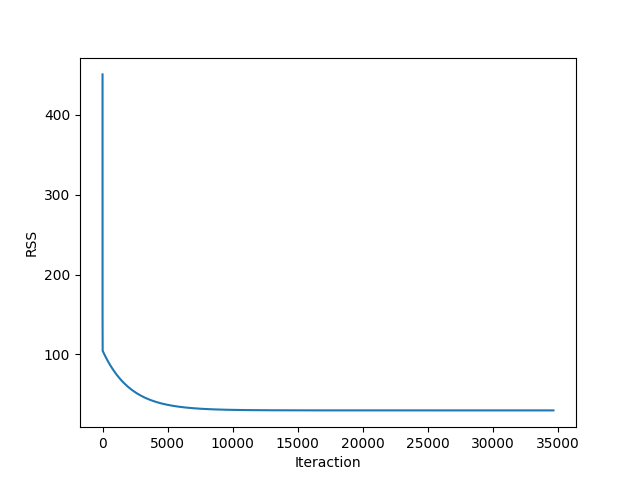
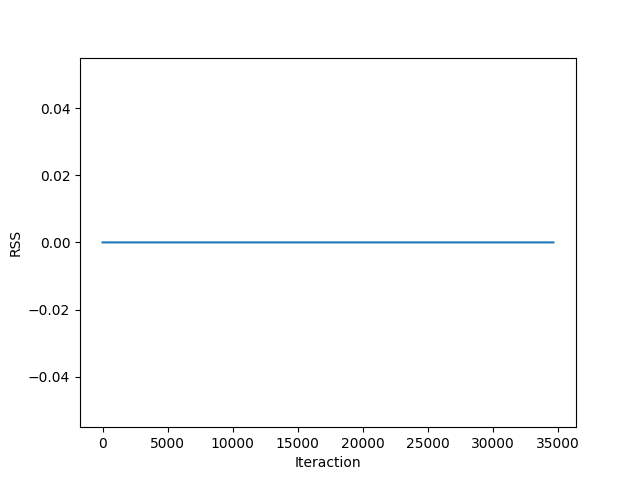
update vetorization

diff --git a/Tarefas/Regressão-Linear-Simples-do-Zero/demo.py b/Tarefas/Regressão-Linear-Simples-do-Zero/demo.py
@@ -51,49 +51,48 @@ def save_figure(data, xlabel, ylabel, filename):
 ## Compute the errors for a given line
 #  @param b Is the linear coefficient
 #  @param m Is the angular coefficient
-#  @param point All points from domain and image
-def compute_error_for_line_given_points(b, m, points):
-	totalError = 0
-	for i in range(0, len(points)):
-		x = points[i, 0]
-		y = points[i, 1]
-		totalError += (y - (m * x + b)) ** 2
-	return totalError / float(len(points))
+#  @param x Domain points
+#  @param y Domain points
+def compute_error_for_line_given_points(w0, w1, x, y):
+	totalError = sum((y - (w1 * x + w0)) ** 2)
+	totalError /= float(len(x))
+	return totalError
 
 ## Calculate a new linear and angular coefficient step by a learning rate. 
-#  @param b_current Current linear coefficient
-#  @param m_current Current linear coefficient
-#  @param points All points from domain and image
+#  @param w0_current Current linear coefficient
+#  @param w1_current Current linear coefficient
+#  @param x Domain points
+#  @param y Image points
 #  @param learningRate The rate in which the gradient will be changed in one step
-def step_gradient(b_current, m_current, points, learningRate):
-	b_gradient = 0
-	m_gradient = 0
+def step_gradient(w0_current, w1_current, x, y, learningRate):
+	w0 = 0
+	w1 = 0
 	norma = 0
-	N = float(len(points))
-	for i in range(0, len(points)):
-		x = points[i, 0]
-		y = points[i, 1]
-		b_gradient += -(2/N) * (y - ((m_current * x) + b_current))
-		m_gradient += -(2/N) * x * (y - ((m_current * x) + b_current))
-	new_b = b_current - (learningRate * b_gradient)
-	new_m = m_current - (learningRate * m_gradient)
+	N = float(len(x))
 	
-	point_a = numpy.array([m_current, b_current])
-	point_b = numpy.array([new_m, new_b])
+	w0 = -2 * sum( y - ( w0_current + ( w1_current * x ) ) ) / N
+	w1 = -2 * sum( ( y - ( w0_current + ( w1_current * x ) ) ) * x ) / N
+	
+	new_w0 = w0_current - (learningRate * w0)
+	new_w1 = w1_current - (learningRate * w1)
+	
+	point_a = numpy.array([w0_current, w1_current])
+	point_b = numpy.array([new_w0, new_w1])
 	norma = numpy.linalg.norm(point_a - point_b)
 	
-	return [new_b, new_m, norma]
+	return [new_w0, new_w1, norma]
 
 ## Run the descending gradient
-#  @param points Domain and image points
-#  @param starting_b Linear coefficient initial
-#  @param starting_m Angular coefficient initial
+#  @param x Domain points
+#  @param y Image points
+#  @param starting_w0 Linear coefficient initial
+#  @param starting_w1 Angular coefficient initial
 #  @param learning_rate The rate in which the gradient will be changed in one step
 #  @param num_iterations Interactions number that the slope line will approximate before a stop.
 #  @param output_filename Figure name to save iteraction x RSS graphic
-def gradient_descent_runner(points, starting_b, starting_m, learning_rate, num_iterations, output_filename):
-	b = starting_b
-	m = starting_m
+def gradient_descent_runner(x, y, starting_w0, starting_w1, learning_rate, num_iterations, output_filename):
+	w0 = starting_w0
+	w1 = starting_w1
 	rss_by_step = 0
 	rss_total = []
 	norma = learning_rate
@@ -104,21 +103,20 @@ def gradient_descent_runner(points, starting_b, starting_m, learning_rate, num_i
 		condiction = False
 	
 	while (norma > (learning_rate/1000) and not condiction) or ( i < num_iteractions and condiction):
-		b, m, norma = step_gradient(b, m, array(points), learning_rate)
+		w0, w1, norma = step_gradient(w0, w1, x, y, learning_rate)
 		
-		rss_by_step = compute_error_for_line_given_points(b, m, points)
+		rss_by_step = compute_error_for_line_given_points(w0, w1, x, y)
 		rss_total.append(rss_by_step)
 		i += 1
 
 	save_figure(rss_total, "Iteraction", "RSS", output_filename)	
 	
-	return [b, m, i]
+	return [w0, w1, i]
 
 ## Compute the W0 and W1 by derivative
-#  @param points Domain and image points
-def compute_normal_equation(points):
-	x = points[:,0] 
-	y = points[:,1]
+#  @param x Domain points
+#  @param y Image points
+def compute_normal_equation(x, y):
 	x_mean = numpy.mean(x)
 	y_mean = numpy.mean(y)
 	w1 = sum((x - x_mean)*(y - numpy.mean(y)))/sum((x - x_mean)**2)
@@ -132,16 +130,18 @@ def compute_normal_equation(points):
 #  @param num_iteractions Interactions number that the slope line will approximate before a stop
 def run(input_filename, output_filename, learning_rate, num_iterations):
 	points = genfromtxt(input_filename, delimiter=",")
-	initial_b = 0 # initial y-intercept guess
-	initial_m = 0 # initial slope guess
+	initial_w0 = 0 # initial y-intercept guess
+	initial_w1 = 0 # initial slope guess
+	x = points[:,0] 
+	y = points[:,1]
 	
 	if learning_rate == 0: 
-		[b, m] = compute_normal_equation(points)
+		[w0, w1] = compute_normal_equation(x, y)
 	else:
-		print "Starting gradient descent at b = {0}, m = {1}, error = {2}".format(initial_b, initial_m, compute_error_for_line_given_points(initial_b, initial_m, points))
-		[b, m, num_iterations] = gradient_descent_runner(points, initial_b, initial_m, learning_rate, num_iterations, output_filename)
+		print "Starting gradient descent at b = {0}, m = {1}, error = {2}".format(initial_w0, initial_w1, compute_error_for_line_given_points(initial_w0, initial_w1, x, y))
+		[w0, w1, num_iterations] = gradient_descent_runner(x, y, initial_w0, initial_w1, learning_rate, num_iterations, output_filename)
 	
-	print "After {0} iterations b = {1}, m = {2}, error = {3}".format(num_iterations, b, m, compute_error_for_line_given_points(b, m, points))
+	print "After {0} iterations b = {1}, m = {2}, error = {3}".format(num_iterations, w0, w1, compute_error_for_line_given_points(w0, w1, x, y))
 
 ## Main function
 #  @param sys.argv[1] Is the file name that contains the 'x' and 'y' values separated by the comma to be trained
@@ -149,19 +149,22 @@ def run(input_filename, output_filename, learning_rate, num_iterations):
 #  @param sys.argv[3] The rate in which the gradient will be changed in one step
 #  @param sys.argv[4] Interactions number that the slope line will approximate before a stop
 if __name__ == '__main__':
-	if (len(sys.argv) != 2) and len(sys.argv) != 4) and (len(sys.argv) != 5):
+	if (len(sys.argv) != 2) and len(sys.argv) != 4 and (len(sys.argv) != 5):
 		printErrorLog(sys.argv)
 		exit(0)
 	
+	output_filename = ""
 	input_filename = sys.argv[1]
 	learning_rate = 0
 	num_iteractions = 0
 	
-	if (len(sys.argv) == 2):
+	if len(sys.argv) == 5:
 		output_filename = sys.argv[2]
-	elif (len(sys.argv) == 4) or (len(sys.argv) == 5):
 		learning_rate = float(sys.argv[3])
-	elif len(sys.argv) == 5:
 		num_iteractions = int(sys.argv[4])
+	elif (len(sys.argv) == 4):
+		output_filename = sys.argv[2]
+		learning_rate = float(sys.argv[3])
+	
 	
 	run(input_filename, output_filename, learning_rate, num_iteractions)
